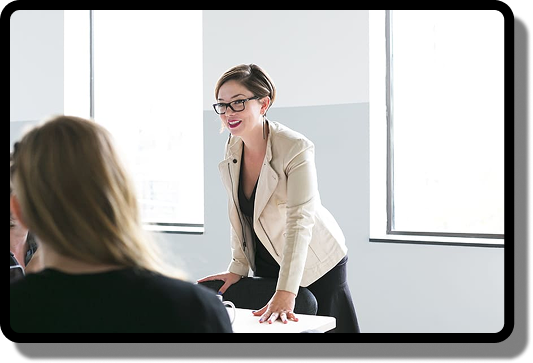
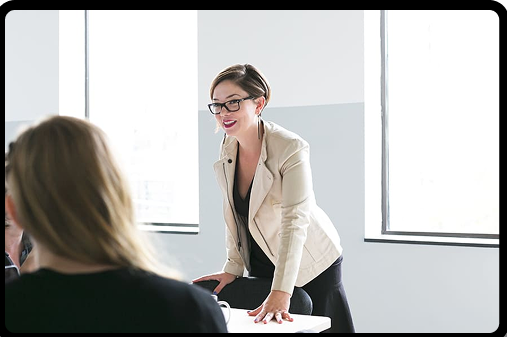
home page corretion

diff --git a/src/pages/Home.jsx b/src/pages/Home.jsx
@@ -19,44 +19,49 @@ const Home = () => {
       </div>
 
       {/* Intro Section */}
-      <div className="row align-items-center mt-lg-5 mb-5">
+      <div className="row align-items-center mt-lg-5 ">
         {/* Left Image Section */}
         <div className="col-md-6 position-relative mb-4 mb-md-0">
-          <div className="position-relative" style={{ paddingLeft: "40px" }}>
+          <div className="position-relative" style={{ paddingLeft: "60px" }}>
+            {/* Main Image with green border and shadow */}
             <img
               src={woman1}
               alt="Meeting"
-              className="img-fluid  rounded shadow w-75"
-              style={{ border: "2px solid #2db284", borderRadius: "1px" }}
+              className="img-fluid"
+              style={{
+                width: "60%",
+               
+              }}
             />
+
+            {/* Overlapping Image */}
             <img
               src={woman2}
               alt="Discussion"
-              className="img-fluid position-absolute w-50"
+              className="img-fluid position-absolute"
               style={{
-                width: "50%",
-                bottom: "-20px",
-                top: "180px",
-                left: "200px",
-                border: "2px solid black",
-                borderRadius: "5px",
-                boxShadow: "1px 1px 1px rgba(0,0,0,0.2)",
+                width: "35%",
+                top: "150px",
+                left: "180px",
+                // border: "4px solid #000",
+                borderRadius: "12px",
+                boxShadow: "8px 8px 0px rgba(0,0,0,0.25)",
+                backgroundColor: "#fff",
               }}
             />
           </div>
         </div>
 
         {/* Right Text Section */}
-        <div className="col-md-6">
+        <div className="col-md-6 fs-5">
           <p>
-            <strong className="text-success">Sonachala</strong> is a hotels
+            <strong style={{ color: "#038A5E" }}>Sonachala</strong> is a hotel
             marketing company focused on the mid-market segment of the Indian
             hospitality industry. As the second-largest revenue management
             company in India, we currently serve a wide range of hotels across
             southern India, including destinations in Tamil Nadu,
             Thiruvannamalai — with plans to expand nationwide.
-          </p>
-          <p>
+          
             Specializing in revenue management, Sonachala offers tailored
             solutions for hotels, motels, resorts, service apartments, bed and
             breakfasts, and homestays. Our comprehensive services are designed
@@ -64,16 +69,18 @@ const Home = () => {
             increasing your online sales through various OTAs (Online Travel
             Agencies).
           </p>
-          <button className="btn btn-outline-dark mt-3">Discover More</button>
+          <button className="btn btn-outline-dark mt-3 px-4 py-2">
+            Discover More
+          </button>
         </div>
       </div>
 
       {/* See Us in Action */}
-      <div className="text-center mb-5  mt-lg-5 ">
+      <div className="text-center mb-5  pt-lg-5 mt-lg-5 ">
         <h2 className="fw-bold mb-3 ">See Us in Action</h2>
         <img
           src={team}
-          className="img-fluid rounded shadow"
+          className="img-fluid "
           alt="Team meeting"
         />
       </div>
@@ -86,8 +93,8 @@ const Home = () => {
           the hotel and travel industry, starting their journey in 2003. With
           deep insight into the challenges faced by hoteliers—and more
           importantly, the solutions—they established{" "}
-          <strong style={{ color: "#a7dbcb" }}>Sonachala.com</strong> in 2023 to address these needs with
-          expertise and innovation.
+          <strong style={{ color: "#a7dbcb" }}>Sonachala.com</strong> in 2023 to
+          address these needs with expertise and innovation.
         </p>
       </div>
 
@@ -223,6 +230,7 @@ const Home = () => {
           </div>
         </div>
       </div>
+
     </div>
   );
 };

diff --git a/src/component/Navbar.jsx b/src/component/Navbar.jsx
@@ -1,22 +1,31 @@
 import React from "react";
 import { FaHeadset } from "react-icons/fa";
 import { Link } from "react-router-dom";
-import logo from "../assets/navimg/logo1.png";
+import logo from "../assets/navimg/navlogo.png";
 
 const Navbar = () => {
   return (
     <div>
       <nav
-        className="navbar navbar-expand-lg navbar-light shadow-sm"
-      
+        className="navbar navbar-expand-lg shadow-sm"
+        style={{
+          backgroundColor: "rgba(255, 255, 255, 0.7)",
+          backdropFilter: "blur(15px)",
+          WebkitBackdropFilter: "blur(10px)",
+          position: "fixed",
+          top: 0,
+          width: "100%",
+          zIndex: 1030,
+          borderBottom: "1px solid rgba(0, 0, 0, 0.1)",
+        }}
       >
         <div className="container-fluid">
           <Link className="navbar-brand d-flex align-items-center" to="/">
             <img
               src={logo}
               alt="Logo"
-              width="80"
-              height="90"
+              width="100"
+              height="100"
               className="d-inline-block align-top"
             />
           </Link>
@@ -34,7 +43,7 @@ const Navbar = () => {
           </button>
 
           <div
-            className="collapse navbar-collapse justify-content-between"
+            className="collapse navbar-collapse justify-content-center gap-5"
             id="navbarNav"
           >
             <ul className="navbar-nav">
@@ -147,7 +156,6 @@ const Navbar = () => {
                 <ul
                   className="dropdown-menu "
                   style={{
-                    
                     border: "none",
                     padding: "1",
                   }}
@@ -201,23 +209,26 @@ const Navbar = () => {
               </li>
             </ul>
 
-            <div className="d-flex align-items-center text-end ms-lg-3">
+            <div className="d-flex align-items-center text-end  justify-content-end ms-lg-3">
+              <FaHeadset size={35} color="#800000" className="p-1" />
               <div className="me-2 text-end">
-                <small className="d-block fw-semibold">Call Us</small>
+                <small className="d-inline-block fw-semibold bg-success text-white rounded-circle px-2 py-1 shadow-sm">
+                  Call Us
+                </small>
+
                 <span
                   className="d-block fw-bold text-nowrap"
                   style={{ fontSize: "0.9rem" }}
                 >
-                  08068007772
+                  8608600772
                 </span>
                 <span
                   className="d-block fw-bold text-nowrap"
                   style={{ fontSize: "0.9rem" }}
                 >
-                  08068007776
+                  8608600778
                 </span>
               </div>
-              <FaHeadset size={28} color="#800000" />
             </div>
           </div>
         </div>
